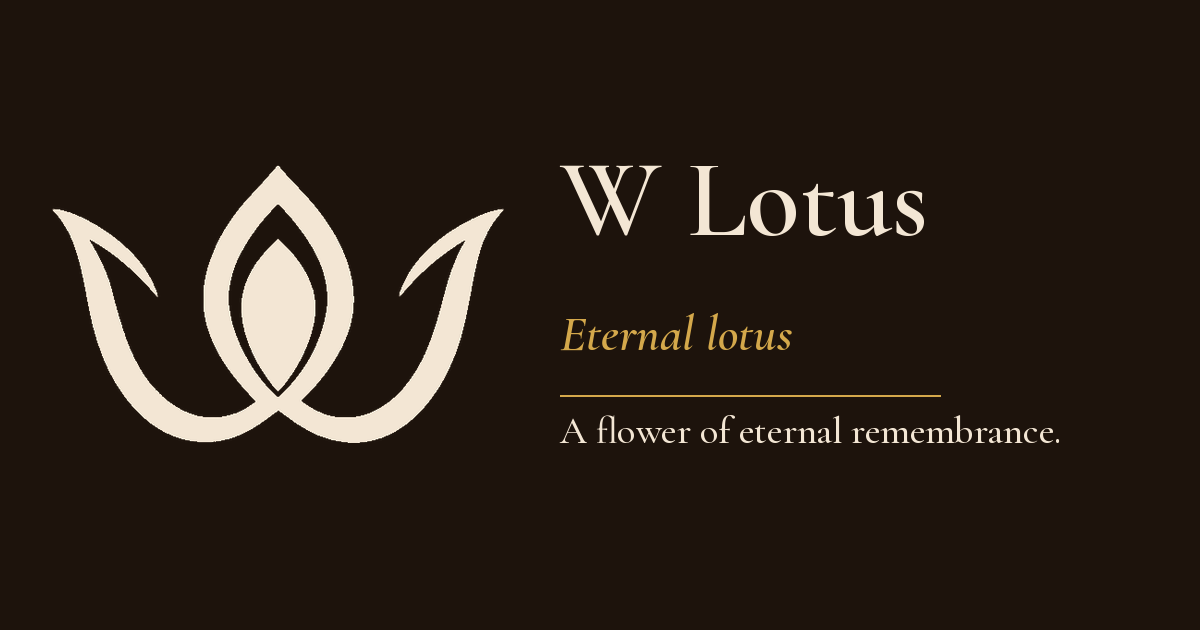
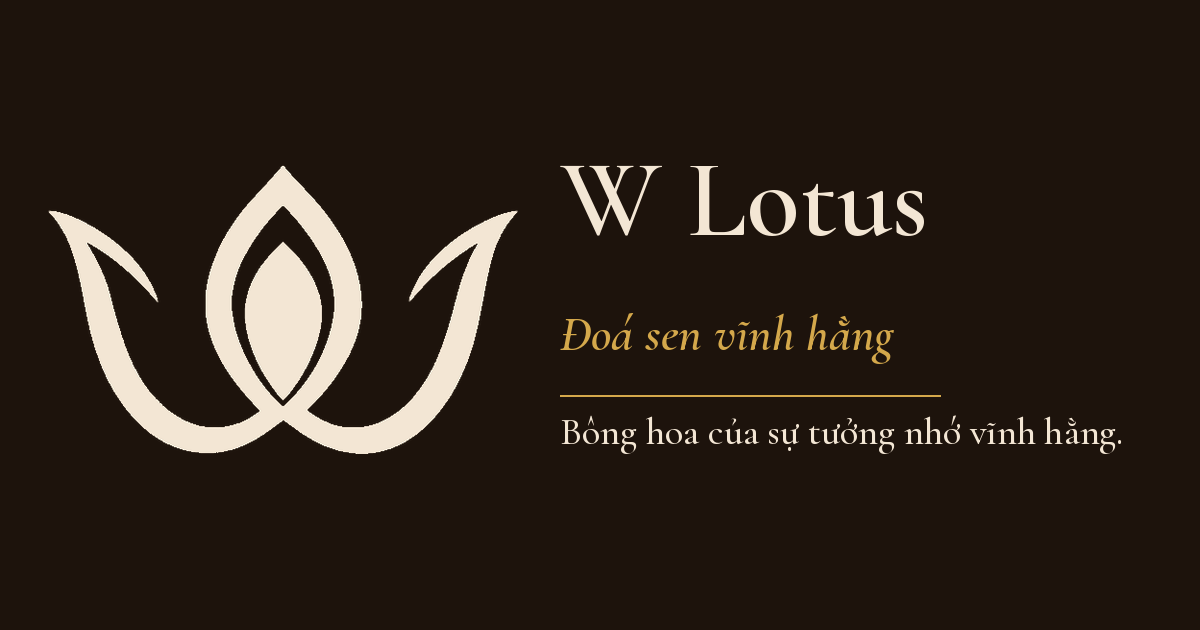
feat(web): localize the Open Graph card for vi, en, and zh
Share HTML already SSRs title/description from ?lang=. Point og:image
at matching rosewood cards (Vietnamese default /og.png) and keep
?lang= on the canonical URL so messengers cache one preview per locale.

diff --git a/tests/ogPreview.test.ts b/tests/ogPreview.test.ts
@@ -5,6 +5,7 @@ import {
   ogCopy,
   ogDisplayNameFromNote,
   ogImageAlt,
+  ogImagePath,
   resolveOgLocale,
 } from '../apps/dana-index/src/ogPreview.js';
 
@@ -85,7 +86,7 @@ describe('ogPreview', () => {
     });
     expect(html).toContain('og:title');
     expect(html).toContain('Tưởng nhớ Bà A &amp; B');
-    expect(html).toContain(`https://wlotus.org/${TX}`);
+    expect(html).toContain(`https://wlotus.org/${TX}?lang=vi`);
     expect(html).toContain(`https://wlotus.org${OG_IMAGE_PATH}`);
     expect(html).toContain('og:image:width" content="1200"');
     expect(html).toContain('og:image:height" content="630"');
@@ -102,7 +103,28 @@ describe('ogPreview', () => {
       pathTxid: TX,
       locale: 'en',
     });
-    expect(html).toContain('/og.png');
+    expect(html).toContain('/og-en.png');
     expect(html).toContain('twitter:image:alt');
+  });
+
+  it('points og:image at the locale card (vi default, en, zh)', () => {
+    expect(ogImagePath('vi')).toBe(OG_IMAGE_PATH);
+    expect(ogImagePath('en')).toBe('/og-en.png');
+    expect(ogImagePath('zh')).toBe('/og-zh.png');
+    const en = buildOgHtml({
+      siteOrigin: 'https://test.wlotus.org',
+      pathTxid: TX,
+      locale: 'en',
+    });
+    expect(en).toContain('https://test.wlotus.org/og-en.png');
+    expect(en).toContain('W Lotus - Eternal lotus');
+    expect(en).toContain(`?lang=en`);
+    const zh = buildOgHtml({
+      siteOrigin: 'https://test.wlotus.org',
+      pathTxid: TX,
+      locale: 'zh',
+    });
+    expect(zh).toContain('https://test.wlotus.org/og-zh.png');
+    expect(zh).toContain('永恒莲花');
   });
 });

diff --git a/apps/dana-index/src/ogPreview.ts b/apps/dana-index/src/ogPreview.ts
@@ -24,6 +24,18 @@ export const OG_IMAGE_PATH = '/og.png';
 export const OG_IMAGE_WIDTH = 1200;
 export const OG_IMAGE_HEIGHT = 630;
 
+/** Locale-specific cards; Vietnamese is `/og.png` (product default). */
+export function ogImagePath(locale: OgLocale): string {
+  switch (locale) {
+    case 'en':
+      return '/og-en.png';
+    case 'zh':
+      return '/og-zh.png';
+    default:
+      return OG_IMAGE_PATH;
+  }
+}
+
 export function ogImageAlt(locale: OgLocale): string {
   switch (locale) {
     case 'en':
@@ -138,8 +150,8 @@ export function buildOgHtml(opts: {
 }): string {
   const origin = opts.siteOrigin.replace(/\/$/, '');
   const txid = opts.pathTxid.toLowerCase();
-  const pageUrl = `${origin}/${txid}`;
-  const image = `${origin}${opts.imagePath || OG_IMAGE_PATH}`;
+  const pageUrl = `${origin}/${txid}?lang=${opts.locale}`;
+  const image = `${origin}${opts.imagePath || ogImagePath(opts.locale)}`;
   const name = ogDisplayNameFromNote(opts.originalNote, opts.locale);
   const copy = ogCopy(opts.locale, name);
   const remembrance = ogRemembranceLine(opts.originalNote);

diff --git a/apps/web/vite.config.ts b/apps/web/vite.config.ts
@@ -49,6 +49,8 @@ export default defineConfig({
         'images/wlotus-icon-512.png',
         'images/wlotus-icon-maskable-512.png',
         'og.png',
+        'og-en.png',
+        'og-zh.png',
       ],
       manifest: {
         id: '/',

diff --git a/scripts/build-og-image.py b/scripts/build-og-image.py
@@ -1,14 +1,16 @@
 #!/usr/bin/env python3
-"""Compose the W Lotus Open Graph card (1200×630).
+"""Compose W Lotus Open Graph cards (1200×630) for vi / en / zh.
 
 Layout matches danaverse.org/og.png: rosewood field, cream brand mark on
-the left, serif wordmark + gold italic tagline + rule + remembrance line.
+the left, serif wordmark + gold tagline + rule + remembrance line.
 
 The lotus is scaled so its ink matches the text stack: top of the flower
 aligns with the top of “W Lotus”, bottom with the last line.
 
-Source glyph: apps/web/public/images/W-bold.png
-Output:       apps/web/public/og.png
+Outputs (product default is Vietnamese):
+  apps/web/public/og.png      vi
+  apps/web/public/og-en.png   en
+  apps/web/public/og-zh.png   zh
 
 Requires: pip install pillow
 """
@@ -22,19 +24,58 @@ from pathlib import Path
 from PIL import Image, ImageDraw, ImageFont
 
 ROOT = Path(__file__).resolve().parents[1]
-IMAGES = ROOT / "apps/web/public/images"
-OUT = ROOT / "apps/web/public/og.png"
+PUBLIC = ROOT / "apps/web/public"
+IMAGES = PUBLIC / "images"
 SOURCE = IMAGES / "W-bold.png"
 FONT_CACHE = Path("/tmp/og-fonts")
 
-# Wood theme (apps/web/src/styles.css [data-theme='wood'])
-BG = (29, 19, 12)  # danaverse / rosewood #1d130c
-CREAM = (243, 230, 212)  # --ink #f3e6d4
-GOLD = (212, 168, 75)  # --accent #d4a84b
+BG = (29, 19, 12)
+CREAM = (243, 230, 212)
+GOLD = (212, 168, 75)
 
 WIDTH, HEIGHT = 1200, 630
-FONT_BASE = (
-    "https://cdn.jsdelivr.net/fontsource/fonts/cormorant-garamond@5.2.5"
+
+FONT_URLS = {
+    "cormorant": (
+        "https://raw.githubusercontent.com/google/fonts/main/ofl/"
+        "cormorantgaramond/CormorantGaramond%5Bwght%5D.ttf"
+    ),
+    "cormorant-italic": (
+        "https://raw.githubusercontent.com/google/fonts/main/ofl/"
+        "cormorantgaramond/CormorantGaramond-Italic%5Bwght%5D.ttf"
+    ),
+    "noto-sc-600": (
+        "https://cdn.jsdelivr.net/fontsource/fonts/noto-serif-sc@5.2.5/"
+        "chinese-simplified-600-normal.ttf"
+    ),
+    "noto-sc-500": (
+        "https://cdn.jsdelivr.net/fontsource/fonts/noto-serif-sc@5.2.5/"
+        "chinese-simplified-500-normal.ttf"
+    ),
+}
+
+CARDS = (
+    {
+        "locale": "vi",
+        "file": "og.png",
+        "tag": "Đoá sen vĩnh hằng",
+        "body": "Bông hoa của sự tưởng nhớ vĩnh hằng.",
+        "cjk": False,
+    },
+    {
+        "locale": "en",
+        "file": "og-en.png",
+        "tag": "Eternal lotus",
+        "body": "A flower of eternal remembrance.",
+        "cjk": False,
+    },
+    {
+        "locale": "zh",
+        "file": "og-zh.png",
+        "tag": "永恒莲花",
+        "body": "永恒追思之花。",
+        "cjk": True,
+    },
 )
 
 
@@ -57,18 +98,25 @@ def extract_cream_glyph(src: Image.Image) -> Image.Image:
     return out
 
 
-def font_path(spec: str) -> Path:
+def ensure_font(key: str) -> Path:
     FONT_CACHE.mkdir(parents=True, exist_ok=True)
-    dest = FONT_CACHE / f"{spec}.ttf"
+    dest = FONT_CACHE / f"{key}.ttf"
     if dest.exists() and dest.stat().st_size > 1000:
         return dest
-    url = f"{FONT_BASE}/{spec}.ttf"
-    urllib.request.urlretrieve(url, dest)
+    urllib.request.urlretrieve(FONT_URLS[key], dest)
     return dest
 
 
-def load_font(spec: str, size: int) -> ImageFont.FreeTypeFont:
-    return ImageFont.truetype(str(font_path(spec)), size=size)
+def load_cormorant(size: int, *, italic: bool, weight: int) -> ImageFont.FreeTypeFont:
+    path = ensure_font("cormorant-italic" if italic else "cormorant")
+    font = ImageFont.truetype(str(path), size=size)
+    font.set_variation_by_axes([float(weight)])
+    return font
+
+
+def load_noto_sc(size: int, weight: int) -> ImageFont.FreeTypeFont:
+    key = "noto-sc-600" if weight >= 600 else "noto-sc-500"
+    return ImageFont.truetype(str(ensure_font(key)), size=size)
 
 
 def line_h(font: ImageFont.FreeTypeFont) -> int:
@@ -76,19 +124,21 @@ def line_h(font: ImageFont.FreeTypeFont) -> int:
     return ascent + descent
 
 
-def main() -> None:
-    if not SOURCE.exists():
-        sys.exit(f"missing glyph {SOURCE}")
-
+def compose(card: dict, glyph_src: Image.Image) -> None:
     canvas = Image.new("RGB", (WIDTH, HEIGHT), BG)
     draw = ImageDraw.Draw(canvas)
-    title_font = load_font("latin-600-normal", 110)
-    tag_font = load_font("latin-600-italic", 50)
-    body_font = load_font("latin-500-normal", 38)
-    text_x = 560
+    title_font = load_cormorant(110, italic=False, weight=600)
+    if card["cjk"]:
+        tag_font = load_noto_sc(50, 600)
+        body_font = load_noto_sc(38, 500)
+    else:
+        tag_font = load_cormorant(50, italic=True, weight=600)
+        body_font = load_cormorant(38, italic=False, weight=500)
+
     title = "W Lotus"
-    tag = "Eternal lotus"
-    body = "A flower of eternal remembrance."
+    tag = card["tag"]
+    body = card["body"]
+    text_x = 560
 
     gap_title_tag = 14
     gap_tag_line = 20
@@ -119,24 +169,36 @@ def main() -> None:
     body_ink = draw.textbbox(
         (text_x, body_y), body, font=body_font, anchor="lt"
     )
+    # Keep long Vietnamese on-canvas.
+    if body_ink[2] > WIDTH - 40:
+        raise SystemExit(
+            f"{card['locale']} body overflows x={body_ink[2]}: {body!r}"
+        )
+
     flower_top = title_ink[1]
     flower_bottom = body_ink[3]
     flower_h = max(1, flower_bottom - flower_top)
-
-    raw = extract_cream_glyph(Image.open(SOURCE))
-    scale = flower_h / raw.height
-    flower_w = max(1, round(raw.width * scale))
-    glyph = raw.resize((flower_w, flower_h), Image.Resampling.LANCZOS)
-    gap_flower_text = 56
-    gx = max(48, text_x - gap_flower_text - glyph.width)
+    scale = flower_h / glyph_src.height
+    flower_w = max(1, round(glyph_src.width * scale))
+    glyph = glyph_src.resize((flower_w, flower_h), Image.Resampling.LANCZOS)
+    gx = max(48, text_x - 56 - glyph.width)
     canvas.paste(glyph, (gx, flower_top), glyph)
 
-    OUT.parent.mkdir(parents=True, exist_ok=True)
-    canvas.save(OUT, format="PNG", optimize=True)
+    out = PUBLIC / card["file"]
+    canvas.save(out, format="PNG", optimize=True)
     print(
-        f"wrote {OUT.relative_to(ROOT)} ({WIDTH}x{HEIGHT}, {OUT.stat().st_size} bytes) "
-        f"flower {glyph.width}x{glyph.height} y={flower_top}..{flower_bottom}"
+        f"wrote {out.relative_to(ROOT)} ({out.stat().st_size} bytes) "
+        f"locale={card['locale']} body_right={body_ink[2]}"
     )
+
+
+def main() -> None:
+    if not SOURCE.exists():
+        sys.exit(f"missing glyph {SOURCE}")
+    glyph_src = extract_cream_glyph(Image.open(SOURCE))
+    PUBLIC.mkdir(parents=True, exist_ok=True)
+    for card in CARDS:
+        compose(card, glyph_src)
 
 
 if __name__ == "__main__":
